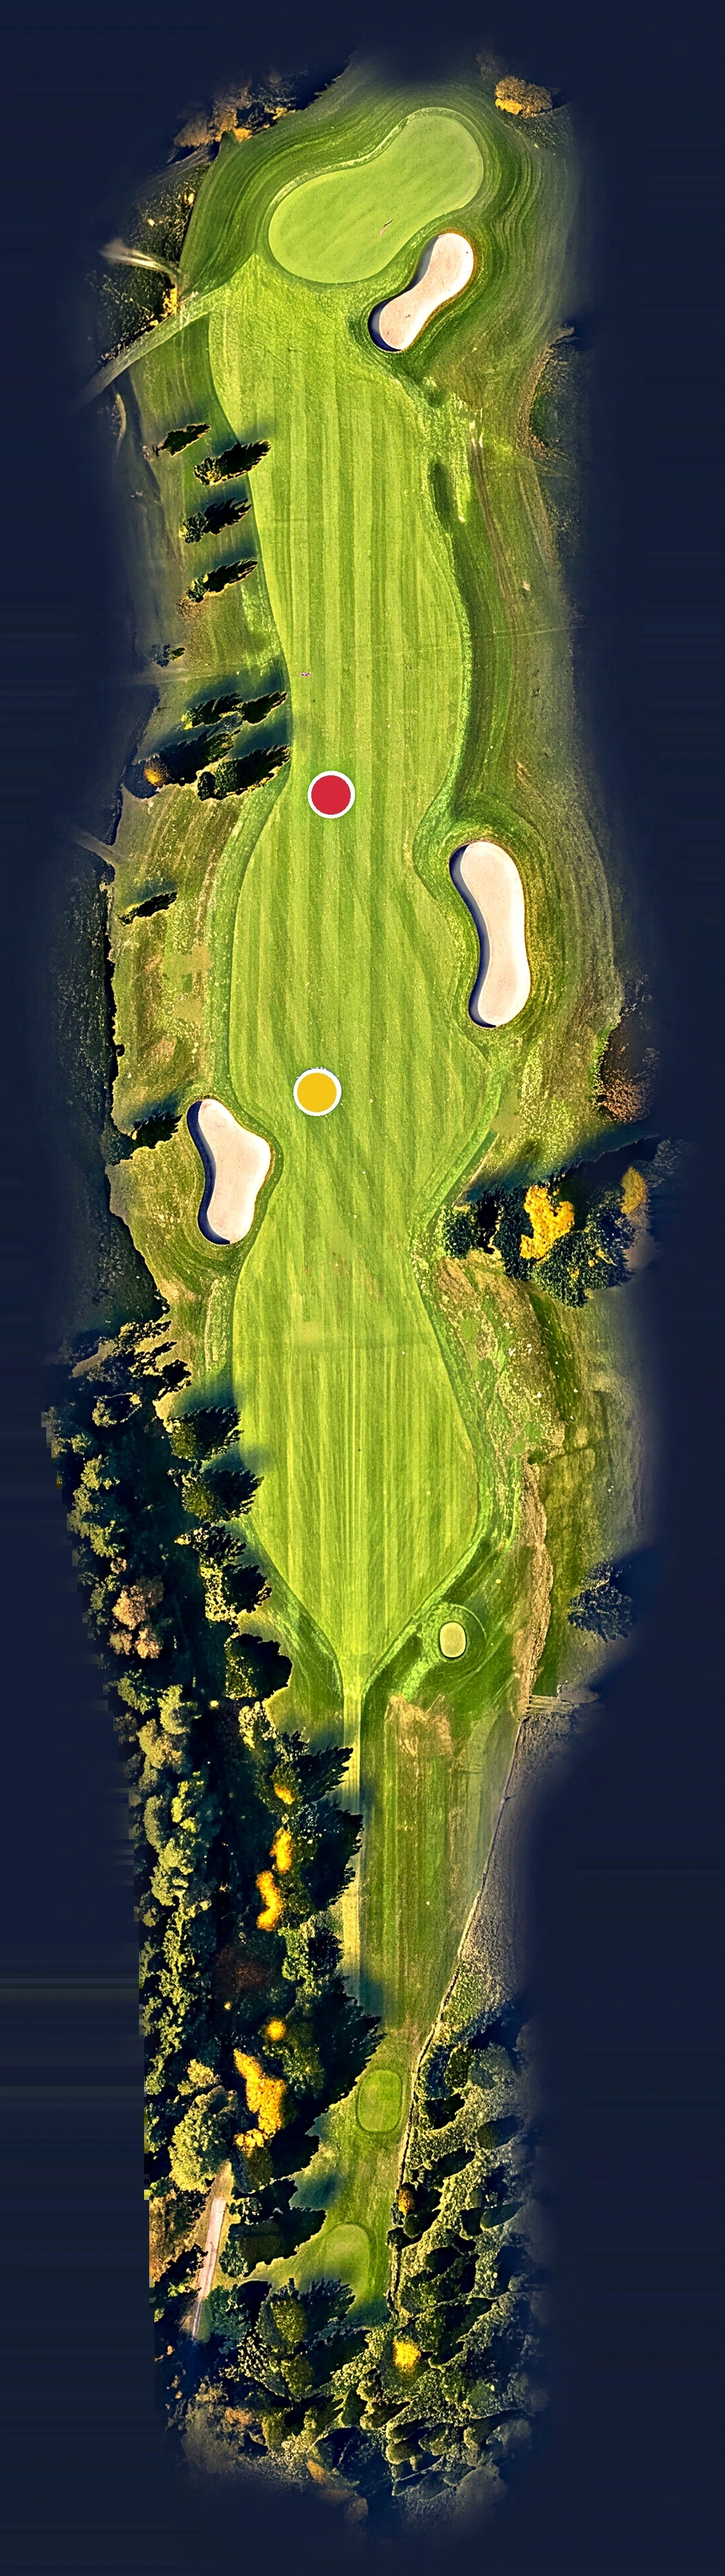
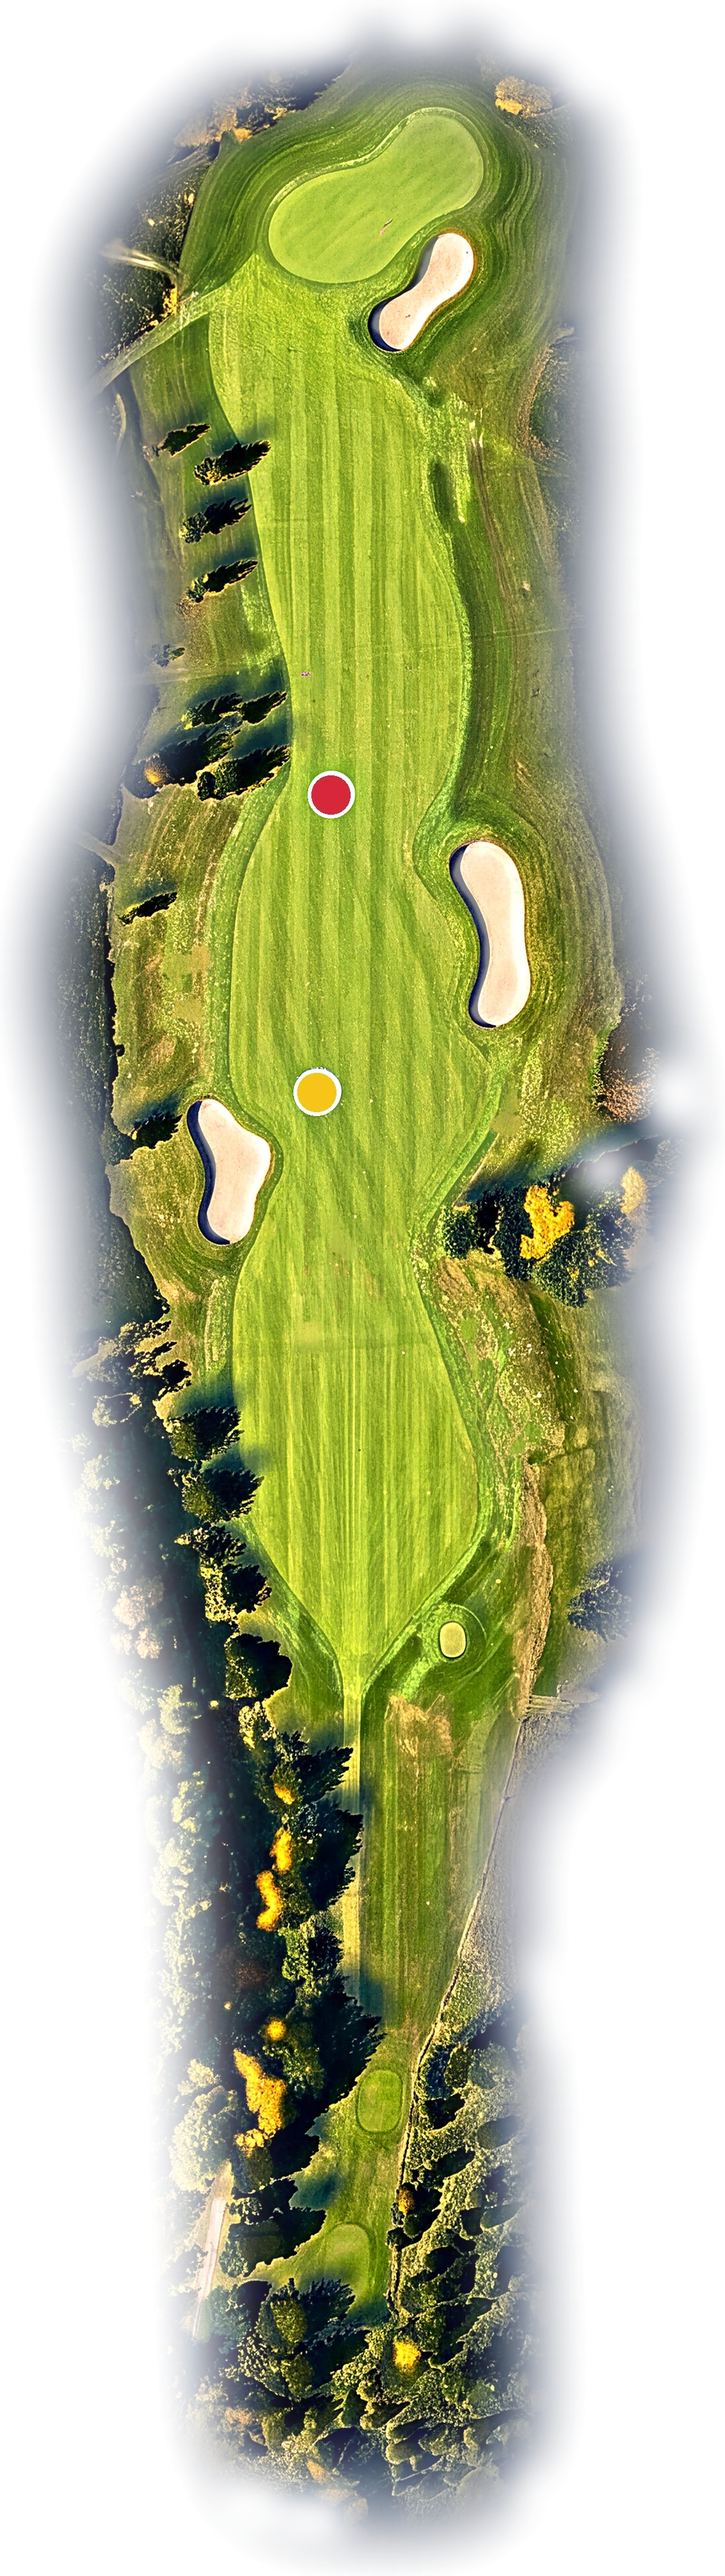
Hålkort i stil A för alla 18 hål, flygfilm 15 m som standard, kanttvätt behåller alfa
Claude-Session: https://claude.ai/code/session_016FkcALaStwXk29HGLfwsBZ

diff --git a/golfholes/__main__.py b/golfholes/__main__.py
@@ -373,7 +373,7 @@ def partnerexport(club_dir: str) -> int:
 
 
 def flygfilm(path: str, data: str | None, ut: str | None, sek: float, slut: float,
-             forlopp: str = "rak", tee: str | None = None, hojd: float = 5.0, blick: float = 60.0) -> int:
+             forlopp: str = "rak", tee: str | None = None, hojd: float = 15.0, blick: float = 110.0) -> int:
     from .render.flygfilm import ATTRIBUTION, flygfilm as rendera
 
     p = Path(path)
@@ -438,7 +438,7 @@ def main(argv: list[str] | None = None) -> int:
     ai.add_argument("fil")
     ai.add_argument("malning", nargs="+", help="AI-bilder gjorda på aiunderlag; den med bäst formpoäng väljs")
     ai.add_argument("--stil", default=None, help="stilen målningen är gjord i (standard: klubbens val)")
-    ff = sub.add_parser("flygfilm", help="Rå flygfilm 5 m över hålet ur Lantmäteriets data (MP4 + nyckelbilder)")
+    ff = sub.add_parser("flygfilm", help="Rå flygfilm 15 m över hålet ur Lantmäteriets data (MP4 + nyckelbilder)")
     ff.add_argument("fil")
     ff.add_argument("--data", default=None, help="mapp med orto/, hojd/, laser/ (standard: data/<klubb>)")
     ff.add_argument("--ut", default=None, help="utmapp (standard: output/<klubb>/flygfilm)")
@@ -447,9 +447,9 @@ def main(argv: list[str] | None = None) -> int:
     ff.add_argument("--forlopp", choices=["rak", "oversikt"], default="rak",
                     help="rak: tee → green → upp (standard). oversikt: ovanifrån → ner till tee → green → upp igen (~23 s)")
     ff.add_argument("--tee", default=None, help="tee att landa på i forlopp oversikt (standard 56)")
-    ff.add_argument("--hojd", type=float, default=5.0,
-                    help="kamerans höjd över marken i m (standard 5; ~28 visar grannhålen och djupet åt sidorna)")
-    ff.add_argument("--blick", type=float, default=60.0, help="hur långt fram kameran tittar i m (standard 60)")
+    ff.add_argument("--hojd", type=float, default=15.0,
+                    help="kamerans höjd över marken i m (standard 15, Erics beslut 2026-10-27; 5 = gamla låga filmen)")
+    ff.add_argument("--blick", type=float, default=110.0, help="hur långt fram kameran tittar i m (standard 110)")
     sr = sub.add_parser("sponsorrapport", help="Visningar per sponsor och kanal för en säsong (PNG + PDF per sponsor)")
     sr.add_argument("klubbmapp")
     sr.add_argument("--sasong", type=int, required=True)

diff --git a/golfholes/render/flygfilm_kontroll.py b/golfholes/render/flygfilm_kontroll.py
@@ -79,7 +79,7 @@ def _scen(hole: Hole, data_dir: Path):
 
 
 def kameror(hole: Hole, data_dir: Path, sekunder: float, slut_s: float = 4.0, forlopp: str = "rak",
-            tee: str | None = None, hojd_m: float = 5.0, blick_m: float = 60.0) -> dict:
+            tee: str | None = None, hojd_m: float = 15.0, blick_m: float = 110.0) -> dict:
     """Kamerabanan precis som i den råa filmen, plus markhöjd runt hålet (för projektion)."""
     scen = _scen(hole, data_dir)
     if forlopp == "oversikt":
@@ -758,8 +758,8 @@ def main(argv=None) -> int:
     p.add_argument("--rutor", default="")
     p.add_argument("--forlopp", choices=["rak", "oversikt"], default="rak")
     p.add_argument("--tee", default=None)
-    p.add_argument("--hojd", type=float, default=5.0, help="kameror: höjd över marken (samma som flygfilm --hojd)")
-    p.add_argument("--blick", type=float, default=60.0, help="kameror: blick framåt i m (samma som flygfilm --blick)")
+    p.add_argument("--hojd", type=float, default=15.0, help="kameror: höjd över marken (samma som flygfilm --hojd, standard 15)")
+    p.add_argument("--blick", type=float, default=110.0, help="kameror: blick framåt i m (samma som flygfilm --blick, standard 110)")
     p.add_argument("--start", type=int, default=0, help="filmen börjar vid den här rutan i den råa filmen (klipp)")
     p.add_argument("--klipp", default="", help="hopklipp: AI-klippen i ordning, kommaseparerade")
     p.add_argument("--delar", default="", help="hopklipp/omproj: egna rutintervall, t.ex. 55-79,79-175")

diff --git a/verktyg/kant_tvatt.py b/verktyg/kant_tvatt.py
@@ -4,7 +4,7 @@
 
 Ränderna letas i hålets lyft-underlag (hal-NN-lyft.webp), där utsnittets kant syns som vågräta streck
 (jämnt i sidled, hackigt i höjdled), inte i målningen: där skulle mörk skog också slå ut. De ytorna
-(med marginal) tonas till bildens egen bakgrundsfärg med mjuk kant. `--i-bilden` letar även ränder i själva målningen (bara på hål där
+(med marginal) görs genomskinliga med mjuk kant (alfakanalen behålls). `--i-bilden` letar även ränder i själva målningen (bara på hål där
 de syns: mörk skog kan annars slå ut); -utan-flagga-versionen tvättas med samma mask. Bilder utan ränder lämnas orörda.
 """
 import sys
@@ -47,9 +47,9 @@ def tvatta(fil):
         return
     for f in (fil, fil.with_name(fil.stem + "-utan-flagga.webp")):
         if f.exists():
-            a = np.asarray(Image.open(f).convert("RGB"), dtype=np.float32)
-            bg = np.median(a[:40, :40].reshape(-1, 3), axis=0)
-            Image.fromarray((a * (1 - m) + bg * m).astype(np.uint8)).save(f, quality=92)
+            a = np.asarray(Image.open(f).convert("RGBA"), dtype=np.float32)
+            a[..., 3:] *= 1 - m  # ränderna blir genomskinliga: hålkortet visar sin egen botten där
+            Image.fromarray(a.astype(np.uint8), "RGBA").save(f, quality=92)
             print(f, f"{(m > 0.5).mean():.1%} tvättat")
 
 

diff --git a/golfholes/render/flygfilm.py b/golfholes/render/flygfilm.py
@@ -290,6 +290,11 @@ def _linjebana(hole: Hole, scen: Scen, tee, blick_m: float, fore_m: float = 20.0
     return s_tee, s_green, vid, H_pa
 
 
+# Standard för flygfilmer (Eric 2026-10-27): 15 m över marken, blick 110 m framåt (hål 9 v2).
+STANDARD_HOJD_M = 15.0
+STANDARD_BLICK_M = 110.0
+
+
 def kamerabana(hole: Hole, scen: Scen, fps: int = 24, sekunder: float = 12.0, hojd_m: float = 5.0,
                blick_m: float = 60.0, slut_s: float = 4.0, bredd: int = 1280, hojd_px: int = 720,
                fov_grader: float = 60.0) -> tuple[list[Kamera], dict]:
@@ -585,8 +590,8 @@ def ffmpeg_bin() -> str | None:
 
 
 def flygfilm(hole: Hole, data_dir: Path, ut_dir: Path, fps: int = 24, sekunder: float = 12.0,
-             bredd: int = 1280, hojd_px: int = 720, hojd_m: float = 5.0, blick_m: float = 60.0,
-             slut_s: float = 4.0, nyckelbilder: int = 6, processer: int | None = None,
+             bredd: int = 1280, hojd_px: int = 720, hojd_m: float = STANDARD_HOJD_M,
+             blick_m: float = STANDARD_BLICK_M, slut_s: float = 4.0, nyckelbilder: int = 6, processer: int | None = None,
              res: float = 0.25, ss: float = 1.5, forlopp: str = "rak", tee: str | None = None) -> dict:
     """Renderar hela flygningen. Returnerar filvägar och fakta om banan.
 

diff --git a/tests/test_flygfilm.py b/tests/test_flygfilm.py
@@ -90,3 +90,12 @@ def test_standardtee_valjer_56():
     hal = _hal()
     hal.tees = [Tee("60", (300.0, 90.0), 310), Tee("52/56", (300.0, 100.0), 300)]
     assert standardtee(hal) == "52/56" and standardtee(hal, "60") == "60"
+
+
+def test_standardhojd_ar_15_m():
+    import inspect
+
+    from golfholes.render.flygfilm import STANDARD_HOJD_M, flygfilm
+
+    assert STANDARD_HOJD_M == 15.0  # Eric 2026-10-27
+    assert inspect.signature(flygfilm).parameters["hojd_m"].default == STANDARD_HOJD_M

diff --git a/docs/flode.md b/docs/flode.md
@@ -83,3 +83,5 @@
 - [x] Partnerexport (2026-10-23): `python -m golfholes partnerexport klubbar/<klubb>` – JSON per hål + loggor i en färg + zip, inga hålbilder eller geometri. Format: `docs/partnerexport.md`.
 - [ ] Glasriket: sponsorer (namn, url, logga, avtalsperiod), `bana`, `ronder_per_ar` och `statistik.plausible_doman` in i `klubb.yaml`
 - [x] Glasriket alla 18 hål i stil A (2026-10-26, Eric: "Kör A på hålen"): `halbilder/hal-NN-a5.webp` (+ `-utan-flagga`), formpoäng 0,80–0,93, hål 6 0,71 (omgjort: AI flyttade bilden och lade till en bunker; prompten säger nu "do not zoom, crop, recentre"). Hål med vatten (1, 2, 3, 5, 6, 16) har en egen prompt. Vägar och byggnader som finns får stå kvar ("do not add any path or building that is not already there"), annars suddades riktiga gångvägar ut. `verktyg/kant_tvatt.py --i-bilden` tar bort AI-ränder där ortofotots utsnitt tar slut (hål 8); kör den bara på hål där ränder syns. Kostnad 3 680 krediter. Kopior i `/mnt/project-files/glasriket/halbilder-stil-a/`. Kvar: hålkort, inlägg och skyltar byggs om först när Eric godkänt stilen.
+- [x] Hålkort i stil A (2026-10-27, Eric: alla 18 hål i stil A godkända, klubbchefen får tycka till): `halkort/hal-NN.yaml` pekar på `hal-NN-a5.webp`; alla 18 kort i layout 3 i `/mnt/project-files/glasriket/halkort-stil-a/`. Inlägg och skyltar byggs först när Eric godkänt korten. `kant_tvatt` behåller nu alfakanalen (hål 8 fick annars en ruta bakom hålet på kortet).
+- [x] Flygfilm standard 15 m (Eric 2026-10-27): `flygfilm`/`kontroll kameror` har nu `--hojd 15 --blick 110` som standard (`STANDARD_HOJD_M` i `golfholes/render/flygfilm.py`). Glasriket: 1–2 visningshål nu, resten efter betalning, klart 2027-03-15. Skill `flygfilm-studio` föreslagen (Eric sparar).

diff --git a/CLAUDE.md b/CLAUDE.md
@@ -14,7 +14,7 @@ Grafiska hålpresentationer och hålsponsorskyltar för svenska golfklubbar. Äg
 
 ## Produktbeslut (2026-10-11)
 - En datagrund per klubb. Klubbens hålbildsstil anges i `klubb.yaml` som `stil:` med ett av de sex namnen nedan (t.ex. `stil: Gravyr`); tabellen `STILAR` i `golfholes/stilar.py` har AI-prompt och stilprov per stil. Glasriket har `stil: foto` (standardprompten). Gamla `stil: 1–4` läses med varning. De kodritade ritmotorerna i `golfholes/render/styles.py` och `sign.py` (`THEMES`) är bara reserv tills hålet är målat.
-- Tee-vy: kamera på tee, 1,6 m höjd, sikte 150 m ut längs mittlinjen (par 3: mot green). Flygfilm: 5 m höjd längs hålet, avslutas i hålbild ovanifrån med sponsorlogga. Rå film ur data: `python -m golfholes flygfilm <hålfil>` (`golfholes/render/flygfilm.py`); AI byter sedan bara yta (video-till-video).
+- Tee-vy: kamera på tee, 1,6 m höjd, sikte 150 m ut längs mittlinjen (par 3: mot green). Flygfilm: 15 m höjd längs hålet (Eric 2026-10-27, var 5 m), blick 110 m, avslutas i hålbild ovanifrån med sponsorlogga. Glasriket: 1–2 visningshål nu, resten efter betalning, klart 2027-03-15. Rå film ur data: `python -m golfholes flygfilm <hålfil>` (`golfholes/render/flygfilm.py`); AI byter sedan bara yta (video-till-video).
 - Skylt 70 × 100 cm, tre plattor: rubrik ("[Sponsor]-hålet"), hålguide (byts aldrig), sponsorplatta med logga i en färg + QR-kod. Tillverkas av Ecosign.
 - Pilotklubb: Glasrikets GK, hål 3.
 
